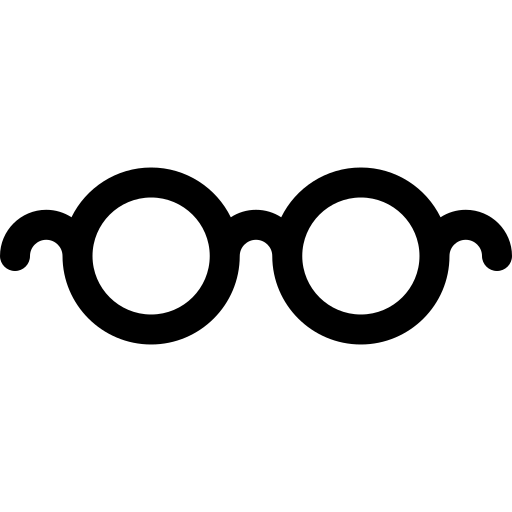
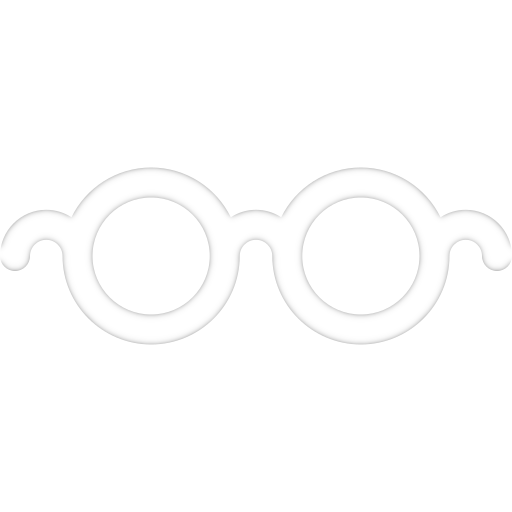
feat: fix pages

Changed region(s): [[0.0, 0.3125, 1.0, 0.6875]]

diff --git a/src/routes/stack.tsx b/src/routes/stack.tsx
@@ -1,47 +1,59 @@
 import * as React from "react";
-import { createNativeStackNavigator } from '@react-navigation/native-stack'
-import { createDrawerNavigator } from '@react-navigation/drawer';
+import { Image, TouchableOpacity } from "react-native";
+import { createNativeStackNavigator } from "@react-navigation/native-stack";
+import { createDrawerNavigator } from "@react-navigation/drawer";
+import { Feather } from '@expo/vector-icons'
 import Home from "../pages/Home";
-import Detalhes from "../pages/Detalhes";
-import Perfil from "../pages/Perfil";
+import Pagamento from "../pages/Pagamento";
+import Cart from "../pages/Cart";
 import Welcome from "../pages/Welcome";
-import Info from "../pages/Info";
-
+import ItemDetails from "../pages/ItemDetails";
 
 declare global {
   namespace ReactNavigation {
-   interface RootParamList {
+    interface RootParamList {
       Welcome: undefined;
-      Drawer: undefined;
       Home: undefined;
-      Perfil: {
-        id: string,
-        nome: string,
-        avatar: string,
+      Drawer: undefined;
+      Carrinho: {
+        id?: string;
+        nome?: string;
+        avatar?: string;
       };
-      Details: undefined;
-      Info: undefined;
+      Pagamento: undefined;
+      ItemDetails: undefined;
     }
   }
 }
+const LogoTitle = () => {
+  return <Image style={{width: 80, height: 30, resizeMode: 'cover'}} source={require('../../assets/images/oculos.png')} />
+}
 
-const Stack = createNativeStackNavigator()
+const Stack = createNativeStackNavigator();
 const Drawer = createDrawerNavigator();
 
 function DrawerNavigation() {
   return (
     <Drawer.Navigator
-    screenOptions={{
-      headerStyle: {backgroundColor: "#6717d6"},
-      headerTintColor: "#ffffff",
-      drawerInactiveTintColor: "#8748e0",
-      drawerActiveTintColor: "#ffffff",
-      drawerStyle: {backgroundColor: "#6717d6"}
-    }}
+      screenOptions={{
+        headerStyle: { backgroundColor: "#6717d6"},
+        headerTintColor: "#ffffff",
+        drawerInactiveTintColor: "#ffffff80",
+        drawerActiveTintColor: "#ffffff",
+        drawerStyle: { backgroundColor: "#6717d6" },
+      }}
     >
-      <Drawer.Screen name="Home" component={Home} />
-      <Drawer.Screen name="Perfil" component={Perfil} />
-      <Drawer.Screen name="Details" component={Detalhes} />
+      <Drawer.Screen name="Home" component={Home} 
+      options={{ 
+        headerTitle: () => <LogoTitle />,
+        headerRight: () => 
+          <TouchableOpacity style={{width: 40, height: 40}} onPress={() => alert('Abrir carrinho')}>
+            <Feather name="shopping-cart" size={28} color="white" />
+          </TouchableOpacity>
+      }}
+      />
+      <Drawer.Screen name="Carrinho" component={Cart} />
+      <Drawer.Screen name="Pagamento" component={Pagamento} />
     </Drawer.Navigator>
   );
 }
@@ -55,15 +67,15 @@ function Router() {
       }}
     >
       <Stack.Group>
-      <Stack.Screen name="Welcome" component={Welcome} />
-      <Stack.Screen name="Drawer" component={DrawerNavigation} />
+        <Stack.Screen name="Welcome" component={Welcome} />
+        <Stack.Screen name="Drawer" component={DrawerNavigation} />
       </Stack.Group>
       <Stack.Group
-      screenOptions={{
-        presentation: 'modal'
-      }}
+        screenOptions={{
+          presentation: "modal",
+        }}
       >
-      <Stack.Screen name="Info" component={Info} />
+        <Stack.Screen name="ItemDetails" component={ItemDetails} />
       </Stack.Group>
     </Stack.Navigator>
   );

diff --git a/src/pages/Pagamento/index.tsx b/src/pages/Pagamento/index.tsx
@@ -1,0 +1,88 @@
+import React from "react";
+import { View, Text, TouchableOpacity, TextInput } from "react-native";
+import { ButtonRoxo } from "../../../components/ButtonRoxo";
+import { useNavigation } from "@react-navigation/native";
+
+export default function Pagamento() {
+  const { navigate, goBack } = useNavigation();
+  return (
+    <View
+      style={{
+        flex: 1,
+        justifyContent: "center",
+        alignItems: "center",
+        backgroundColor: "#470d97",
+      }}
+    >
+      <View
+        style={{
+          position: 'absolute',
+          top: '12%',
+          width: "90%",
+          height: 100,
+          paddingHorizontal: 15,
+          alignItems: "center",
+          justifyContent: "center",
+          backgroundColor: "#8747ff",
+          borderRadius: 30,
+        }}
+      >
+        <Text style={{ fontSize: 16, color: "#fff" }}>
+          Atenção, toda e qualquer forma de pagamento fica responsavel por
+          servidores privados, todos os seus dados estão seguros!
+        </Text>
+      </View>
+
+      <Text
+        style={{
+          position: "absolute",
+          top: "5%",
+          fontSize: 36,
+          color: "#fff",
+        }}
+      >
+        Formas de pagamento
+      </Text>
+      <View
+        style={{
+          width: "80%",
+          height: 200,
+          alignItems: "center",
+          justifyContent: "center",
+          backgroundColor: "#8747ff",
+          borderRadius: 30,
+        }}
+      >
+        <TouchableOpacity
+          style={{
+            width: "100%",
+            height: 50,
+            alignItems: "flex-start",
+            justifyContent: "center",
+            backgroundColor: "#712bf3",
+          }}
+        >
+          <Text style={{ color: "#ffffffdb", fontSize: 22, marginLeft: "5%" }}>
+            Cartão de crédito
+          </Text>
+        </TouchableOpacity>
+
+        <TouchableOpacity
+          style={{
+            width: "100%",
+            height: 50,
+            alignItems: "flex-start",
+            justifyContent: "center",
+            backgroundColor: "#712bf3",
+          }}
+        >
+          <Text style={{ color: "#ffffffdb", fontSize: 22, marginLeft: "5%" }}>
+            Pix
+          </Text>
+        </TouchableOpacity>
+      </View>
+
+      <ButtonRoxo onPress={() => goBack()} label="Voltar" />
+    </View>
+  );
+}

diff --git a/src/pages/Cart/index.tsx b/src/pages/Cart/index.tsx
@@ -1,0 +1,62 @@
+import React from "react";
+import { View, Text, TouchableOpacity, Image, ScrollView } from "react-native";
+import { useNavigation, useRoute } from "@react-navigation/native";
+import { ButtonRoxo } from "../../../components/ButtonRoxo";
+import { Card } from "../../../components/Card";
+
+export default function Cart() {
+  const { navigate, goBack } = useNavigation();
+
+  return (
+    <ScrollView
+      style={{
+        flex: 1,
+        paddingHorizontal: 20,
+        paddingBottom: '10%',
+        backgroundColor: "#6717d6",
+      }}
+    >
+      <Card>
+        <Image
+          resizeMode="cover"
+          style={{ width: "50%", height: "100%", borderRadius: 20 }}
+          source={require("../../../assets/images/oculos/OFERTA1.jpeg")}
+        />
+        <Text style={{ color: "#ffffff" }}></Text>
+      </Card>
+      <Card>
+        <Image
+          resizeMode="cover"
+          style={{ width: "50%", height: "100%", borderRadius: 20 }}
+          source={require("../../../assets/images/oculos/OFERTA2.jpeg")}
+        />
+        <Text style={{ color: "#ffffff" }}></Text>
+      </Card>
+      <Card>
+        <Image
+          resizeMode="cover"
+          style={{ width: "50%", height: "100%", borderRadius: 20 }}
+          source={require("../../../assets/images/oculos/OFERTA4.jpeg")}
+        />
+        <Text style={{ color: "#ffffff" }}></Text>
+      </Card>
+      <Card>
+        <Image
+          resizeMode="cover"
+          style={{ width: "50%", height: "100%", borderRadius: 20 }}
+          source={require("../../../assets/images/oculos/QUADRADO.jpeg")}
+        />
+        <Text style={{ color: "#ffffff" }}></Text>
+      </Card>
+      <Card>
+        <Image
+          resizeMode="cover"
+          style={{ width: "50%", height: "100%", borderRadius: 20 }}
+          source={require("../../../assets/images/oculos/rayban.jpeg")}
+        />
+        <Text style={{ color: "#ffffff" }}></Text>
+      </Card>
+    </ScrollView>
+
+  );
+}

diff --git a/src/pages/Home/index.tsx b/src/pages/Home/index.tsx
@@ -5,36 +5,30 @@ import { Card } from "../../../components/Card";
 import { useNavigation } from "@react-navigation/native";
 
 export default function Home() {
-   const  {navigate} = useNavigation()
+  const { navigate } = useNavigation();
   return (
     <View
       style={{
         flex: 1,
-        justifyContent: "center",
         alignItems: "center",
+        paddingHorizontal: 14,
+        paddingVertical: 18,
         backgroundColor: "#6717d6",
       }}
     >
-      <View style={{ alignContent: "flex-start" }}>
-
-        <Text style={{ fontSize: 28, fontWeight: "500", color: "#fff" }}>
-          Novidades
+      <View style={{ width: '100%', alignSelf: 'flex-start' }}>
+        <Text style={{ fontSize: 28, marginBottom: 10, fontWeight: "500", color: "#fff" }}>
+          Destaques
         </Text>
-      </View>
-      <Card>
-      <Text style={{ fontSize: 34, fontWeight: "800", color: "#fff" }}>
-          Atualização
+        <Card>
+        <Text style={{ fontSize: 34, fontWeight: "800", color: "#fff" }}>
+          OBTENHA OS MELHORES DESCONTOS
         </Text>
       </Card>
+      </View>
+    
 
-      <ButtonRoxo
-        onPress={() => navigate('Perfil', {
-          nome: 'Rubens',
-          id: 'uid@-1',
-          avatar: 'www.google.com'
-        })}
-        label="Meu perfil"
-      />
+      
     </View>
   );
 }

diff --git a/components/Card/index.tsx b/components/Card/index.tsx
@@ -1,14 +1,15 @@
 import React from "react";
 import { View, TouchableOpacity, Text } from "react-native";
 
-export const Card = ({ children }) => {
+export const Card = ({ children }: any) => {
   return (
     <View
       style={{
-        width: "80%",
-        height: 140,
-        justifyContent: 'center',
-        alignItems: 'center',
+        width: '100%',
+        height: 200,
+        marginVertical: 12,
+        paddingVertical: 20,
+        paddingHorizontal: 20,
         borderRadius: 20,
         backgroundColor: "#9b53ff",
       }}

diff --git a/src/pages/ItemDetails/index.tsx b/src/pages/ItemDetails/index.tsx
@@ -16,9 +16,13 @@ export default function Info() {
       }}
     >
       <View style={{ alignContent: "flex-start" }}>
-        <Text style={{ fontSize: 36, color: "#fff" }}>Versão de Software</Text>
+        <Text style={{ fontSize: 36, color: "#fff" }}>Detalhes do produto</Text>
         <Text style={{ fontSize: 64, fontWeight: "800", color: "#fff" }}>
-          1.0.3
+          Nome:
+          Preço:
+          Categoria:
+          Desconto:
+          
         </Text>
       </View>
       <Image
